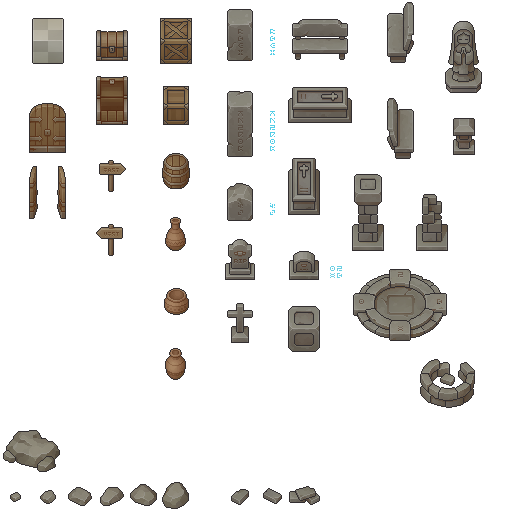
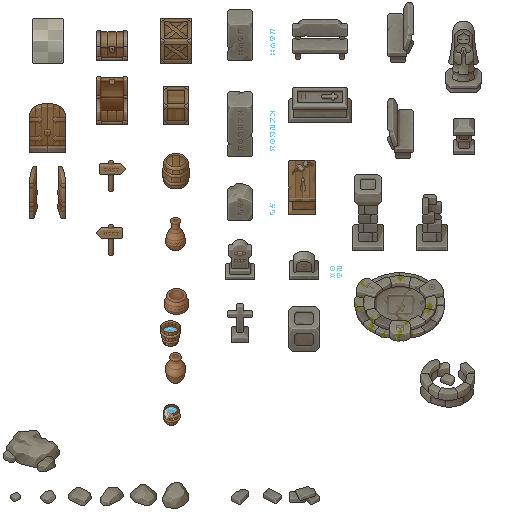
atualizacao minigame

diff --git a/lib/game/game_controller.dart b/lib/game/game_controller.dart
@@ -1,3 +1,4 @@
+import 'package:bonfire/bonfire.dart';
 import 'package:flutter/foundation.dart';
 import 'package:projeto_gbb_demo/game/enum/one_time_animations.dart';
 import 'package:projeto_gbb_demo/game/items/base_item.dart';
@@ -34,11 +35,14 @@ class LocalGameController with ChangeNotifier {
   int swordScore = 0;
   int minigameHitCount = 0;
   double timeCount = 0.0;
+  Vector2 minigamePos = Vector2(0,0);
   OneTimeAnimations _playAnimation = OneTimeAnimations.none;
   OneTimeAnimations get playAnimation => _playAnimation;
 
+  int stashedIron = 0;
 
-  void heal(int value) {
+
+  void heal(int value) { 
     ((_playerLife + value) > 20) ?
       _playerLife = 20 : _playerLife += value;
     notifyListeners();
@@ -85,22 +89,28 @@ class LocalGameController with ChangeNotifier {
     notifyListeners();
   }
 
-  void getIron() {
-    if (!isInventoryFull()) {
-      addToInventory(IronBar());
-      _playAnimation = OneTimeAnimations.acquiredIron;
-    } else {
-      shrugPlayer();
+    bool getIron(ironCount) {
+      if (!isInventoryFull() && (ironCount > 0)) {
+        addToInventory(IronBar());
+        stashedIron--;
+        _playAnimation = OneTimeAnimations.acquiredIron;
+        notifyListeners();
+        return true;
+      } else {
+        shrugPlayer();
+        notifyListeners();
+        return false;
+      }
     }
-    notifyListeners();
-  }
+  // Anvil functions:
 
-  void startMinigame() {
+  void startMinigame(Vector2 pos) {
     if(hasIron()) {
       removeFromInventory(IronBar());
       minigameHitCount = 0;
       swordScore = 0;
       minigameIsActive = true;
+      minigamePos = pos;
       startGameLoopCounter();
       notifyListeners();
     } else {
@@ -119,11 +129,24 @@ class LocalGameController with ChangeNotifier {
         _playAnimation = (swordScore == 250) ? OneTimeAnimations.perfectSwordComplete : OneTimeAnimations.swordComplete;
         // swords.add(ForgedSword(swordScore: swordScore, isLegendary: (swordScore == 250)));
         addToInventory(Sword(isLegenday: swordScore >= 250));
-        print("added sword: score $swordScore");
       }
       minigameIsActive = false;
     }
     notifyListeners();
+  }
+
+  void checkMinigameDistance(Vector2 currentPosition) {
+    if(minigameIsActive){
+      if (((currentPosition.x - minigamePos.x > 320) || (currentPosition.x - minigamePos.x < -320)) || ((currentPosition.y - minigamePos.y > 320) ||(currentPosition.y - minigamePos.y < -320))) {
+        cancelMinigame();
+        notifyListeners();
+      }
+    }
+  }
+
+  void cancelMinigame() {
+    minigameIsActive = false;
+    notifyListeners;
   }
 
   void turnOffAnimation() {
@@ -154,6 +177,9 @@ class LocalGameController with ChangeNotifier {
       swordScore += 50;
     }
   }
+
+
+  // Inventory Functions:
 
   void addToInventory(Item itemToAdd) {
     // _inventory.firstWhere((element) => element.name == 'empty');
@@ -208,6 +234,7 @@ class LocalGameController with ChangeNotifier {
     for(int i = 0; i < 4; i++) {
       if(_inventory[i].name == type.name) {
         pos = i;
+        break;
       }
     }
     if(pos == -1) {

diff --git a/lib/screens/minigame.dart b/lib/screens/minigame.dart
@@ -2,6 +2,7 @@ import 'dart:math';
 
 import 'package:flutter/material.dart';
 import 'package:flutter/src/widgets/framework.dart';
+import 'package:projeto_gbb_demo/common/common.dart';
 // import 'package:flutter/src/widgets/placeholder.dart';
 // import 'package:projeto_gbb_demo/screens/pause_screens/overlay_screen.dart';
 import 'package:provider/provider.dart';
@@ -19,45 +20,24 @@ class MiniGame extends StatelessWidget {
       backgroundColor:Colors.red[900]!.withAlpha(0),
       body: localGameController.minigameIsActive ? Center(
         child: 
-        SizedBox(
-          width: 320,
-          height: 480,
-          child: Column(
-            children: [
-              Stack(
-                children: [
-                  Row(children: [
-                    Portion(boxColor: Colors.red[800], boxWidth: 106,),
-                    Portion(boxColor: Colors.orange[800],boxWidth: 34),
-                    Portion(boxColor: Colors.yellow[800], boxWidth: 16),
-                    Portion(boxColor: Colors.green[400], boxWidth: 8),
-                    Portion(boxColor: Colors.yellow[800], boxWidth: 16),
-                    Portion(boxColor: Colors.orange[900], boxWidth: 34),
-                    Portion(boxColor: Colors.red[900], boxWidth: 106,),
-                    ],),
-                  Positioned(left: 158 - (158 * sin(localGameController.timeCount)),child: SizedBox(height: 64, width: 4, child: DecoratedBox(decoration: BoxDecoration(color: Colors.black),)))
-                ],
-              ),
+          SizedBox(height: 400, width: 480, child: Padding(
+            padding: const EdgeInsets.only(right: 80),
+            child: Stack(
+              children: [
+                MinigameInterface.minigameBackground,
+                Center(child: Transform.rotate(angle: 90 + sin(localGameController.timeCount),child: SizedBox(height: 320, width: 4, child: Column(
+                  mainAxisAlignment: MainAxisAlignment.end,
+                  children: [
+                    SizedBox(height:80, width: 4, child: DecoratedBox(decoration: BoxDecoration(color: Colors.black),)),
+                  ],
+                )))),
+                MinigameInterface.minigameDecoration,
               ],
-            ),
-          )
+                        //   ),
+                        ),
+          )),
         ) : const SizedBox(),
       ),
-    );
-  }
-}
-
-class Portion extends StatelessWidget {
-  final double boxWidth;
-  final Color? boxColor;
-  const Portion({super.key, required this.boxColor, required this.boxWidth});
-
-  @override
-  Widget build(BuildContext context) {
-    return SizedBox(
-      height: 64,
-      width: boxWidth,
-      child: DecoratedBox(decoration: BoxDecoration(color: boxColor)),
     );
   }
 }

diff --git a/lib/game/game_sprite_sheet.dart b/lib/game/game_sprite_sheet.dart
@@ -216,11 +216,18 @@ class GameObjectsSprites {
   static Future<Sprite> swordShippingBoxFour = Sprite.load('objects/sword_box/sword_box_4.png');
 
   static Future<Sprite> anvilMinigame = Sprite.load('objects/anvil_minigame.png');
+  
+  //furnace
   static Future<Sprite> furnace = Sprite.load('objects/furnace.png');
   static Future<SpriteAnimation> get activeFurnace => SpriteAnimation.load(
     'objects/active_furnace.png',
     SpriteAnimationData.sequenced(amount: 6, stepTime: 0.2, textureSize: Vector2(64,192))
   );
+
+  //
+  static Future<Sprite> launchStation = Sprite.load('objects/launch_station/launch_station_idle.png');
+  static Future<SpriteAnimation> launchStationActivation = SpriteAnimation.load('objects/launch_station/launch_station_activating.png', SpriteAnimationData.sequenced(amount: 10, stepTime: 0.2, textureSize: Vector2(92, 70)));
+  static Future<Sprite> launchStationActivated = Sprite.load('objects/launch_station/launch_station_activated.png');
 }
 
   SimpleDirectionAnimation communistArcher = SimpleDirectionAnimation(
@@ -417,6 +424,11 @@ List<Widget> getToken(CharacterClass characterClass, CharacterFaction faction) {
   // sideToken.add(InterfaceSpriteSheet.interface);
   return sideToken;
 
+}
+
+class MinigameInterface {
+  static Image get minigameBackground => Image.asset('assets/images/minigame/minigame.png',height: 400, fit: BoxFit.cover,);
+  static Image get minigameDecoration => Image.asset('assets/images/minigame/minigame_decoration.png',height: 400, fit: BoxFit.cover,);
 }
 
 class BackgroundImages {

diff --git a/lib/game/objects/furnace.dart b/lib/game/objects/furnace.dart
@@ -4,24 +4,46 @@ import 'package:projeto_gbb_demo/game/game_sprite_sheet.dart';
 
 class Furnace extends GameDecoration with Attackable {
   LocalGameController localGameController;
+  int stashedIron = 0;
   Furnace({
     required super.position,required this.localGameController})
       : super.withAnimation(animation: GameObjectsSprites.activeFurnace, size: Vector2(384, 1152)) 
 ;    @override
     Future<void> onLoad() {
       add(RectangleHitbox(size:Vector2(324, 192), position: Vector2(24, 932),));
+      initFurnace();
       return super.onLoad();
     }
 
     @override
     void update(double dt) {
         // do anything
-        super.update(dt);
+        super.update(dt); 
     }
+     //  Furnace functions:
+
+    void initFurnace() {
+      Future.delayed(Duration(seconds: 15), () {
+        produceIron();
+      });
+    }
+
+    void produceIron() {
+      if(stashedIron < 5) {
+        stashedIron++;
+      }
+      Future.delayed(Duration(seconds: 15), () {
+        produceIron();
+      });
+    }
+  
     
     @override
     void onReceiveDamage(attacker, double damage, identify) {
-      localGameController.getIron();
+      bool gotIron = localGameController.getIron(stashedIron);
+      if (gotIron) {
+        stashedIron--;
+      }
       super.onReceiveDamage(attacker, 0.0, identify);
     }
 } 

diff --git a/lib/game.dart b/lib/game.dart
@@ -84,7 +84,8 @@ class _GameState extends State<Game> {
           BlackSmithMaster(position: Vector2(tileSize * 19.25, tileSize * 15.5), size: PlayerConsts.npcSize, hitboxSize: PlayerConsts.characterHitbox, hitboxPosition: PlayerConsts.hitboxPosition, controller: context.read<LocalGameController>()),
           Anvil(position: Vector2(tileSize * 21.5, tileSize * 19.5), localGameController: context.read<LocalGameController>()),
           Furnace(position: Vector2(tileSize * 21, tileSize * 11), localGameController: context.read<LocalGameController>()),
-          SwordShippingBox(position: Vector2(tileSize * 19.5, tileSize * 14.5),localGameController: context.read<LocalGameController>()),
+          SwordShippingBox(position: Vector2(tileSize * 19, tileSize * 18.5),localGameController: context.read<LocalGameController>()),
+          LaunchStation(position: Vector2(tileSize * 14, tileSize * 9.5),localGameController: context.read<LocalGameController>()),
         ],
         cameraConfig: CameraConfig(zoom: 0.8),
         map: WorldMapByTiled(WorldMapReader.fromAsset('map/new_map/ruins_map_pvp.json'), forceTileSize: Vector2(tileSize, tileSize)),

diff --git a/lib/game/objects/shipping_box.dart b/lib/game/objects/shipping_box.dart
@@ -16,7 +16,7 @@ class SwordShippingBox extends GameDecoration with Attackable {
       return super.onLoad();
     }
 
-    List<Item> swordsInBox = [];
+    List<Sword> swordsInBox = [];
     
     @override
     void onReceiveDamage(attacker, double damage, identify) {
@@ -30,7 +30,7 @@ class SwordShippingBox extends GameDecoration with Attackable {
         clearBox();
       } else {
         if(sword != null) {
-          swordsInBox.add(sword);
+          swordsInBox.add(sword as Sword);
           localGameController.removeFromInventory(sword);
           updateShippingBoxSprite();
         } else {
@@ -43,6 +43,14 @@ class SwordShippingBox extends GameDecoration with Attackable {
     }
 
     void clearBox() {
+      int totalPoints = 0;
+
+      for (int i = 0; i < swordsInBox.length; i++) {
+        totalPoints += (swordsInBox[i].isLegenday) ? 50 : 25;
+      }
+
+      localGameController.getMoney(totalPoints);
+
       swordsInBox.clear();
       updateShippingBoxSprite();
       return;

diff --git a/lib/game/objects/launch_station.dart b/lib/game/objects/launch_station.dart
@@ -1,0 +1,21 @@
+import 'package:bonfire/bonfire.dart';
+import 'package:projeto_gbb_demo/game/game_controller.dart';
+import 'package:projeto_gbb_demo/game/game_sprite_sheet.dart';
+
+class LaunchStation extends GameDecoration {
+  LocalGameController localGameController;
+  LaunchStation({
+    required super.position,required this.localGameController})
+      : super.withSprite(sprite: GameObjectsSprites.launchStation, size: Vector2(552, 420)) 
+;    @override
+    Future<void> onLoad() {
+      add(RectangleHitbox(size:Vector2(152, 0), position: Vector2(200, -400),));
+      return super.onLoad();
+    }
+
+    @override
+    void update(double dt) {
+        // do anything
+        super.update(dt); 
+    }
+} 

diff --git a/lib/main.dart b/lib/main.dart
@@ -1,12 +1,18 @@
 import 'package:flutter/material.dart';
 import 'package:projeto_gbb_demo/players/player_consts.dart';
 import 'package:provider/provider.dart';
+import 'package:window_manager/window_manager.dart';
 import 'game/game_controller.dart';
 import 'game.dart';
 
 const double tileSize = 32;
 
 void main() async {
+  // WidgetsFlutterBinding.ensureInitialized();
+  // await windowManager.ensureInitialized();
+  // await windowManager.setTitleBarStyle(TitleBarStyle.hidden);
+  // await windowManager.setFullScreen(true);
+
   runApp(
     MultiProvider(
       providers: [

diff --git a/lib/game/objects/anvil.dart b/lib/game/objects/anvil.dart
@@ -34,7 +34,7 @@ class Anvil extends GameDecoration with Attackable {
     
     @override
     void onReceiveDamage(attacker, double damage, identify) {
-      localGameController.minigameIsActive ? localGameController.miniGameHit() : localGameController.startMinigame();
+      localGameController.minigameIsActive ? localGameController.miniGameHit() : localGameController.startMinigame(position);
       updateAnvilSprite();
       super.onReceiveDamage(attacker, 0.0, identify);
     }

diff --git a/lib/players/player_one.dart b/lib/players/player_one.dart
@@ -61,6 +61,7 @@ class PlayerOne extends SimplePlayer with BlockMovementCollision {
 
   @override
     void update(double dt) {
+      localGameController.checkMinigameDistance(position);
       playOneTimeAnimations();
       _isPlayingOneTimeAnimation = localGameController.playAnimation != OneTimeAnimations.none;
       super.update(dt);

diff --git a/lib/game/objects/objects.dart b/lib/game/objects/objects.dart
@@ -1,3 +1,4 @@
 export 'anvil.dart';
 export 'furnace.dart';
 export 'shipping_box.dart';
+export 'launch_station.dart';
